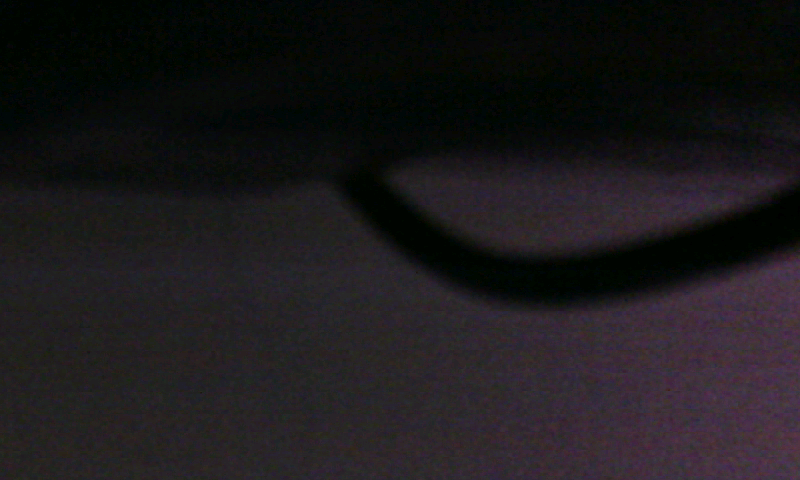
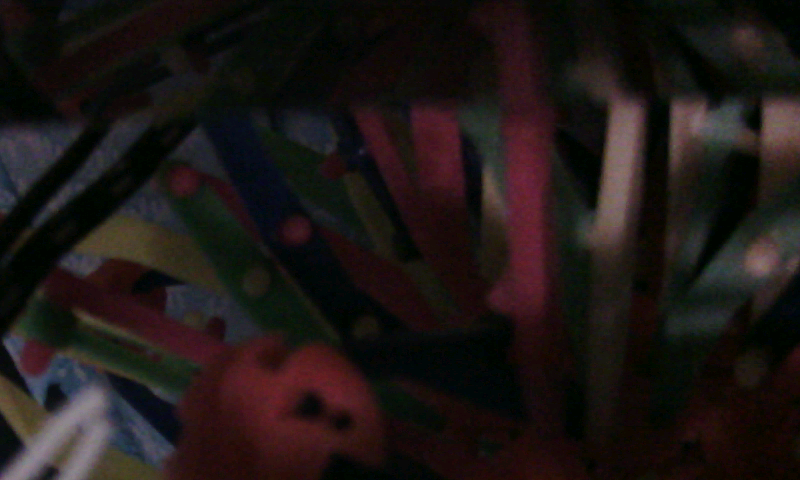
rename: ov5640_preview -> camera_pipeline, ready for an image-processing stage
The project is named for the video pipeline now that an image-processing stage is
planned; the OV5640-specific pieces keep their ov5640_* names inside (ov5640_top,
ov5640_capture, the SCCB driver and the register table).

  - Vivado project, bitstream directory, XSA and the Vitis application are
    camera_pipeline.*
  - the console banner follows the new name
  - README gains an "Adding image processing" section: the three insertion points
    (camera word stream at 42 MHz, DDR read path at 50 MHz, panel pixel path at
    33 MHz) and the invariants a write-side stage must preserve - 96 000 words
    per frame, 200 words per line, the frame tag on bit 64, 4-pixel alignment
  - new ps/restart_app.tcl resets the PS and re-runs the loaded application
  - hw_connect now kills a stale hw_server first: a server left over from an
    earlier session keeps a dead handle on the cable, so every JTAG command
    "succeeds" while nothing happens (bitstream not programmed, CPU not reset)

Rebuilt from scratch and re-verified on the board after the rename: camera 30 fps,
panel 60 fps, 0 underruns, 0 AXI errors, live frames change and frozen frames are
byte identical; WNS +2.937 ns / WHS +0.035 ns.  Both simulations still pass.

diff --git a/ps/app/main.c b/ps/app/main.c
@@ -1,5 +1,5 @@
 // =============================================================================
-//  main.c — ACZ702 OV5640 camera preview, PS side
+//  main.c — ACZ702 camera pipeline (OV5640 -> DDR3 -> TFT), PS side
 //
 //  The PL does all of the video work: OV5640 DVP capture -> tagged 64-bit pixel
 //  words -> DDR3 double buffer through S_AXI_HP0 -> 33.3 MHz RGB565 panel
@@ -191,7 +191,7 @@ int main(void)
 
     xil_printf("\r\n");
     xil_printf("=============================================\r\n");
-    xil_printf(" ACZ702 camera preview - OV5640 -> DDR3 -> TFT\r\n");
+    xil_printf(" ACZ702 camera pipeline - OV5640 -> DDR3 -> TFT\r\n");
     xil_printf(" %d x %d RGB565, two frame buffers in DDR\r\n", H_ACTIVE, V_ACTIVE);
     xil_printf("=============================================\r\n");
 

diff --git a/README.md b/README.md
@@ -1,4 +1,4 @@
-# ACZ702 OV5640 camera preview — camera → DDR3 → 800×480 TFT
+# ACZ702 camera pipeline — OV5640 → DDR3 → 800×480 TFT
 
 Board: 芯路恒 ACZ702 (Zynq-7020, `xc7z020clg400-1`), OV5640 module on the DVP camera
 header, 4.3" 800×480 RGB TFT (WKS43189 class), Vivado / Vitis 2023.2.
@@ -9,11 +9,12 @@ configured over SCCB by the PL, its DVP output is packed into 64-bit words, two
 times them out to the panel at 1056×526 @ 33.333 MHz (60.0 Hz).  The PS supplies
 DDR3, the 50 MHz AXI clock and a control/status word pair — nothing else.
 
-![camera preview](docs/frame_boost.png)
+![camera pipeline](docs/frame_boost.png)
 
 *Live camera frame read back out of DDR3 over JTAG (`ps/dump_fb.tcl` + `tools/fb2png.py`).
-The camera was pointing at a dim, close surface, so this is the raw frame with a 3.2×
-gain and 0.65 gamma applied for viewing — `docs/frame.png` is the unmodified dump.*
+The camera sits a few centimetres from a tangle of cables on the desk, so the picture is
+an out-of-focus close-up; this is the raw dump with a 3.2× gain and 0.65 gamma applied
+because the room is dim — `docs/frame.png` is the unmodified dump.*
 
 ```
   OV5640 (DVP, 800x480 RGB565, PCLK ~42 MHz)
@@ -57,12 +58,12 @@ The panel shows the camera picture, 800×480, 60 Hz refresh from a ~30 fps camer
 running and fast when it is not.  The console reports:
 
 ```
- ACZ702 camera preview - OV5640 -> DDR3 -> TFT
+ ACZ702 camera pipeline - OV5640 -> DDR3 -> TFT
  800 x 480 RGB565, two frame buffers in DDR
  ...
 OV5640 configured, waiting for the first frames...
-cam init=1 live=1 fps=30 frames=37 | panel frames=79 underruns=0 errs=0 | bl=100% camera live
-cam init=1 live=1 fps=30 frames=67 | panel frames=139 underruns=0 errs=0 | bl=100% camera live
+cam init=1 live=1 fps=26 frames=37 | panel frames=81 underruns=0 errs=0 | bl=100% camera live
+cam init=1 live=1 fps=30 frames=67 | panel frames=141 underruns=0 errs=0 | bl=100% camera live
 ```
 
 | Key | Action |
@@ -100,6 +101,33 @@ AXI master can move 400 MB/s, and each burst is 16 beats (128 bytes), the maximu
 AXI3 burst the HP port accepts.  Bursts never cross a 4 KB boundary (768 000 =
 6000 × 128 bytes).
 
+## Adding image processing
+
+The project is named for the *pipeline* rather than the sensor: the video path is
+deliberately split so a processing stage has three clean insertion points.
+
+| Insertion point | Clock | Granularity | Use it for |
+|---|---|---|---|
+| between `u_capture` and `u_cam_fifo` (`ov5640_top.v`) | camera PCLK 42 MHz | one 64-bit word = 4 RGB565 pixels | line-buffered kernels: 3×3 Sobel / median / gaussian, colour balance |
+| inside `fb_ddr`, between the read burst and `disp_data` | AXI 50 MHz | 64-bit word stream out of DDR | per-word effects on the display side, and anything that must keep the stored frame raw |
+| inside `lcd_display`, before `lcd_rgb` | pixel 33.3 MHz | one pixel | cheap overlays (freeze marker, histogram, crosshair, test patterns) |
+
+Invariants a write-side stage must keep, otherwise the DDR engine's address
+counter drifts and the picture slides:
+
+* **96 000 words per frame** (800 × 480 / 4) and **200 words per line**;
+* the **frame tag (bit 64)** stays on the first word of every frame;
+* word alignment is **4 pixels**, restarted at every line and frame (the packer
+  does this; a filter that delays pixels must delay the tag by the same amount).
+
+For a mode switch, wire it to a reserved control bit (`ctrl[2]` … `ctrl[7]`) and
+report the active mode in a reserved status bit (`status_cam[7:2]`), then add a
+console key next to `p`/`f`/`b` in `ps/app/main.c`.
+
+Line-buffer budget at the camera rate: 4 pixels/cycle, 800 pixels/line = 200
+words/line, so a 3×3 kernel needs two line buffers (≈ 3 BRAM36) and about
+1 500 LUTs for three 8-bit channels.
+
 ## Clock domains
 
 | Domain | Source | Used by |
@@ -128,6 +156,7 @@ MMCM: VCO 1200 MHz (M = 24), CLKOUT0 /36, CLKOUT1 /50.
 | `ps/build_app.tcl` | Vitis platform, BSP, application build |
 | `ps/run_app.tcl` | JTAG download of bitstream + `ps7_init` + ELF |
 | `ps/dump_fb.tcl` | read a live frame buffer out over JTAG (proof without a screen capture) |
+| `ps/restart_app.tcl` | reset the PS and re-run the loaded application |
 | `ps/impl_pre.tcl` | implementation hook: CLOCK_DEDICATED_ROUTE waiver for the camera PCLK pin |
 | `ps/impl_iterate.tcl` | re-run place & route on the existing project (iteration helper) |
 | `ps/app/main.c` | status console and key commands |
@@ -143,7 +172,7 @@ MMCM: VCO 1200 MHz (M = 24), CLKOUT0 /36, CLKOUT1 /50.
 ## Build
 
 ```powershell
-cd D:\Programs\tests\fpga\ov5640_preview
+cd D:\Programs\tests\fpga\camera_pipeline
 
 # 1. bitstream + XSA  (prints "IMPL STATUS: ... write_bitstream Complete!")
 & D:\Xilinx\Vivado\2023.2\bin\vivado.bat -mode batch -source ps/build_hw.tcl `
@@ -165,6 +194,15 @@ powershell -File tools/serial_send.ps1 -Text "h" -ReadSeconds 2
 The panel lights up with the camera image within about a second of the ELF
 starting (the PL waits ~1.05 s before the SCCB writes, as the OV5640 needs its
 power-up delay).
+
+`ps/restart_app.tcl` resets the PS and re-runs the already loaded application
+(no bitstream, no ELF download) when only the software changed.  Every JTAG
+script starts by killing a stale `hw_server`: a server left over from an earlier
+session keeps a dead handle on the cable and silently ignores every command.
+
+```powershell
+& D:\Xilinx\Vitis\2023.2\bin\xsct.bat ps/restart_app.tcl
+```
 
 Frame-buffer proof (no camera or monitor capture needed):
 
@@ -230,10 +268,10 @@ id, and there were no underruns and no AXI errors.  The DDR dump line shows
 ### On the board
 
 ```
-cam init=1 live=1 fps=30 frames=37   | panel frames=79   underruns=0 errs=0 | bl=100% camera live
-cam init=1 live=1 fps=30 frames=127  | panel frames=260  underruns=0 errs=0 | bl=100% camera live
-cam init=1 live=1 fps=30 frames=2952 | panel frames=5911 underruns=0 errs=0 | bl=100% camera live
-cam init=1 live=1 fps=30 frames=3043 | panel frames=6091 underruns=0 errs=0 | bl=100% camera live
+cam init=1 live=1 fps=26 frames=37   | panel frames=81   underruns=0 errs=0 | bl=100% camera live
+cam init=1 live=1 fps=30 frames=127  | panel frames=261  underruns=0 errs=0 | bl=100% camera live
+cam init=1 live=1 fps=30 frames=368  | panel frames=742  underruns=0 errs=0 | bl=100% camera live
+cam init=1 live=1 fps=30 frames=2455 | panel frames=7009 underruns=0 errs=0 | bl=30%  camera live
 ```
 
 | Check | Result |
@@ -243,14 +281,14 @@ cam init=1 live=1 fps=30 frames=3043 | panel frames=6091 underruns=0 errs=0 | bl
 | AXI | **0 error responses** on the HP0 path |
 | Live picture | two frame-buffer dumps 1.2 s apart differ (`identical frames: False`) |
 | Freeze (`f`) | two dumps 1.2 s apart are **byte identical** (`identical frames: True`) |
-| Frame content | both buffers hold real 2-D image data (`row_delta` ≈ 77, i.e. rows differ) |
+| Frame content | both buffers hold real 2-D image data (`row_delta` ≈ 85, i.e. rows differ) |
 | Backlight (`b`) | duty cycles 255 → 153 → 77 → 26 and back, visible on the panel |
 | Test pattern (`p`) | 8 colour bars + white frame on the panel instead of the camera |
 
-The picture during verification was a dim, out-of-focus close-up (the camera was
-lying on a desk pointing at a surface a few centimetres away), so the raw frame
-`docs/frame.png` looks almost black; `docs/frame_boost.png` is the *same* dump with
-a 3.2× gain and 0.65 gamma purely to make it viewable.
+The camera was lying on the desk a few centimetres from a tangle of cables, so the
+picture is an out-of-focus close-up and the room is dim: `docs/frame.png` is the raw
+dump, `docs/frame_boost.png` the *same* dump with a 3.2× gain and 0.65 gamma purely to
+make it easier to look at.
 
 ## Design notes
 
